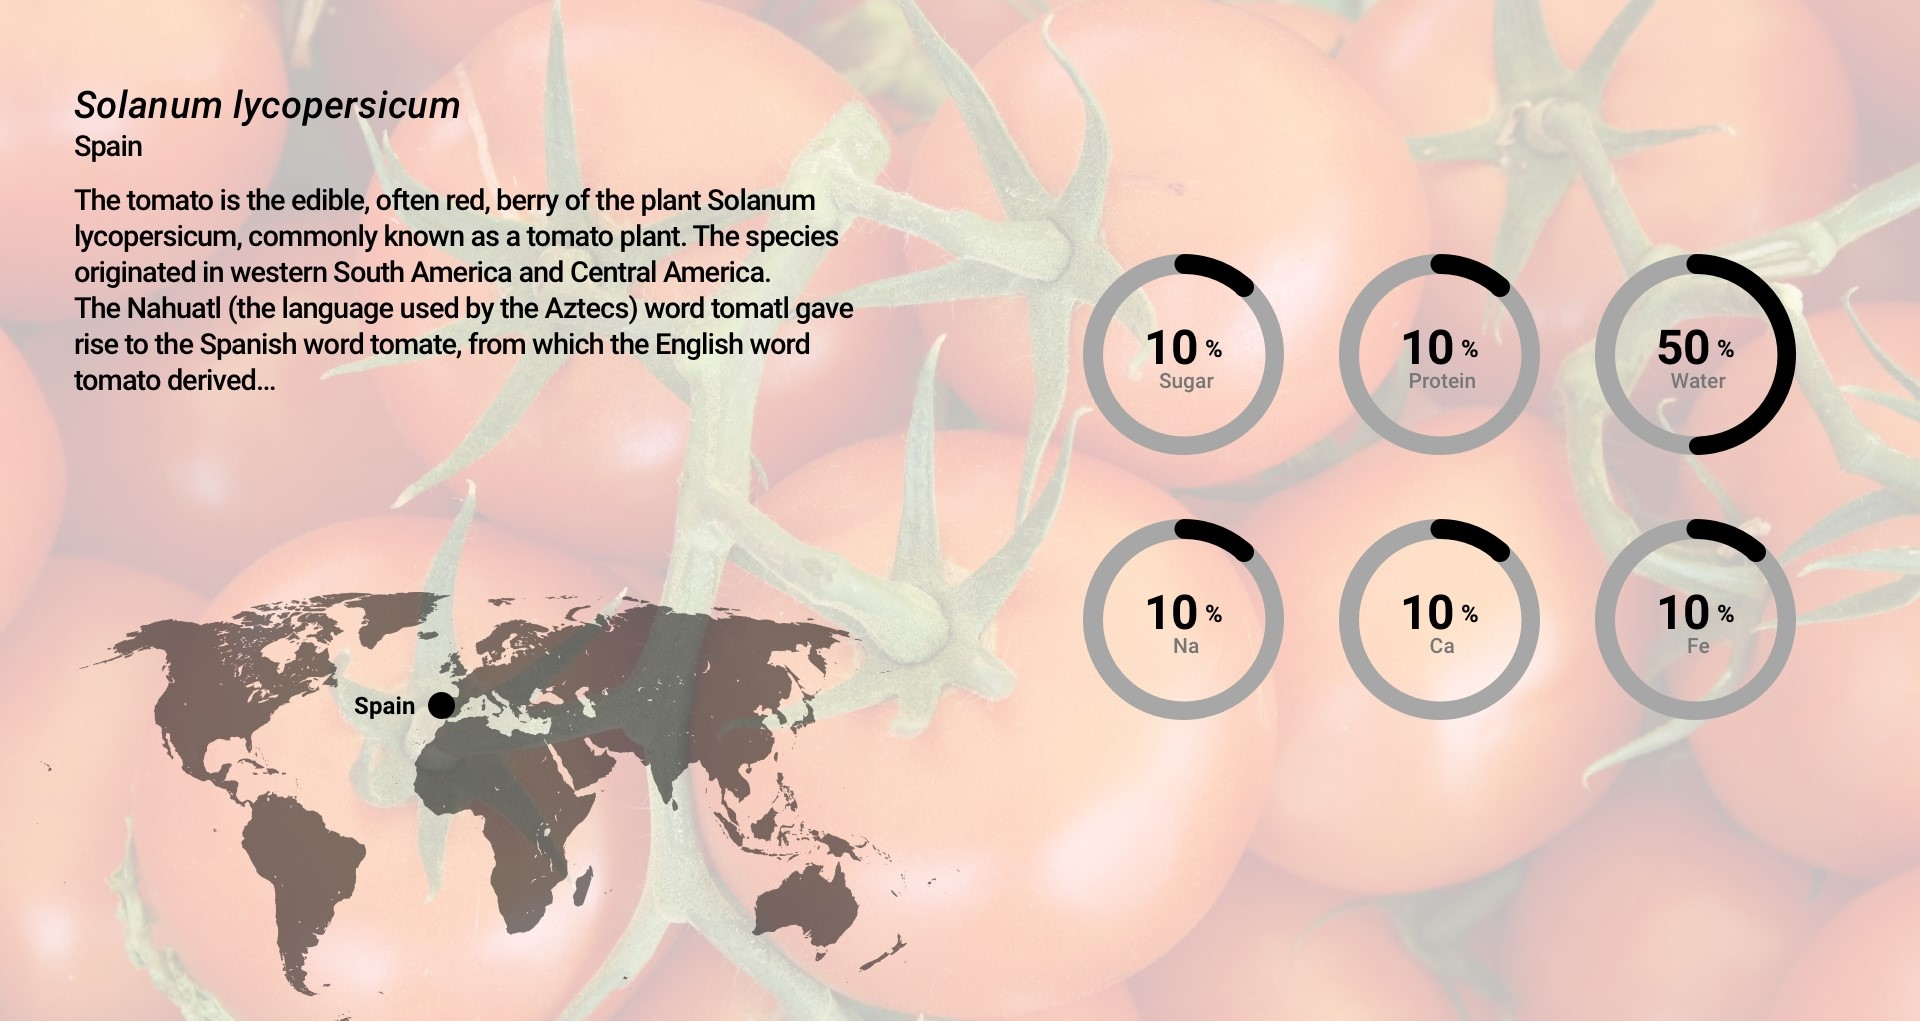
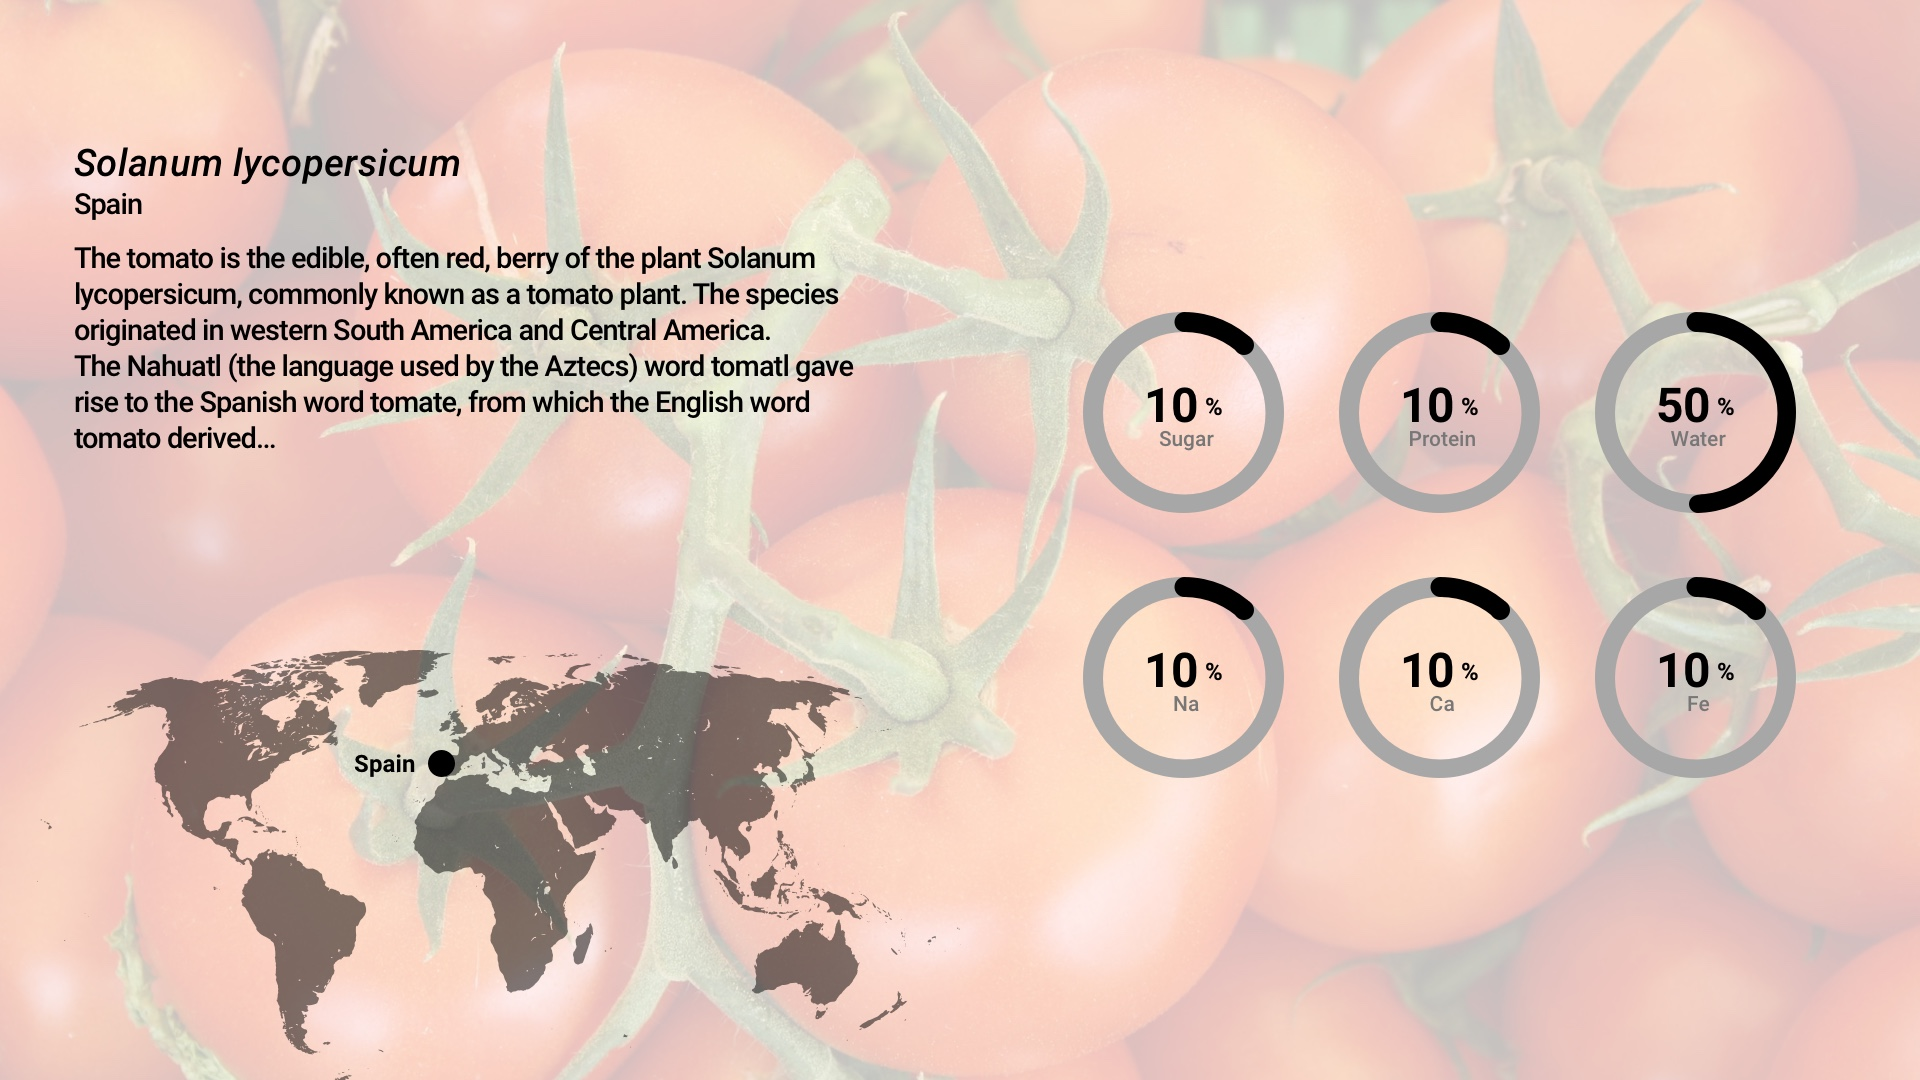
Changes done for screen alignment

diff --git a/src/app/menu/menu.component.css b/src/app/menu/menu.component.css
@@ -1,38 +1,43 @@
-.menuTabDiv{
-    padding-top: 41%;
-    background-size: cover;
-    width: 100%;
-    vertical-align: middle;
-    background-image:linear-gradient(to top, #e8eee8 10%,  #e8eee8 10%);
-    }
-.menuFlex{
-    display: flex;
-    padding-left: 5%;
-    background: linear-gradient(to top, #e8eee8, transparent);
+:host {
+  position: absolute;
+  top: 0;
+  left: 0;
+  right: 0;
 }
-.menuBG{
-    position:inherit;
+
+.menuTabDiv {
+  padding-top: 41%;
+  background-size: cover;
+  width: 100%;
+  vertical-align: middle;
+  background-image: linear-gradient(to top, #e8eee8 10%, #e8eee8 10%);
 }
-.menuTab{
-    width: 100%;
-    bottom: 0;
-   }
-.menuHead{
+.menuFlex {
+  display: flex;
+  padding-left: 5%;
+  background: linear-gradient(to top, #e8eee8, transparent);
+}
+.menuBG {
+  position: inherit;
+}
+.menuTab {
+  width: 100%;
+  bottom: 0;
+}
+.menuHead {
   font-weight: bold;
   font-size: medium;
   color: black;
-  font-family: 'Roboto';
+  font-family: "Roboto";
   z-index: 9997;
-  width: 48.84%;
+  width: 49.5%;
   height: 10%;
   position: absolute;
-  top: 1.2%;
+  top: 0%;
   background: linear-gradient(to bottom, #e8eee8, transparent);
 }
-.recipeMainDiv{
+.recipeMainDiv {
   position: absolute;
   height: 73%;
   width: 87%;
 }
-
-

diff --git a/src/app/app-routing.module.ts b/src/app/app-routing.module.ts
@@ -8,10 +8,8 @@ import { MyListComponent } from './menu/my-list/my-list.component';
 import { CarouselComponent } from './carousel/carousel.component';
 
 const routes: Routes = [
- // { path: 'home/id/:menuId', component: MenuComponent},
   { path: 'carousel', component: CarouselComponent},
    { path: 'home', component: MenuComponent,
-
    children: [
     {path: 'myList', component: MyListComponent},
     {path: 'recipe', component: RecipeComponent},
@@ -23,13 +21,6 @@ const routes: Routes = [
   ]
   }
 ];
-  /*
- {path: 'menu', component: MenuComponent},
- {path: 'categories', component: CategoryComponent},
- { path: 'information', component: NutriInfoComponent }
-]*/
-
-
 
 
 @NgModule({

diff --git a/src/app/menu/recipe/recipe.component.css b/src/app/menu/recipe/recipe.component.css
@@ -4,19 +4,20 @@
   background-position-y: center;
   background-repeat: no-repeat;
   z-index: -1;
-  height: 100%;
-  width: 99%;
+  width: 100%;
   padding-bottom: 10%;
   padding-right: 0%;
-  height: 100%;
+  padding-top: 40%;
   position: absolute;
 }
 
 .recipeItemDiv {
   width: 50%;
-  padding-top: 5%;
   padding-left: 5%;
   color: black;
+  position: absolute;
+  top: 15%;
+  z-index: 0;
 }
 
 .recipeItemDiv.inactive {
@@ -32,8 +33,10 @@
   color: black;
   font-family: "Roboto";
   z-index: 9997;
-  width: 49.38%;
+  width: 49.48%;
   height: 10%;
+  top: 0;
+  position: absolute;
   background: linear-gradient(to bottom, #e8eee8, transparent);
 }
 

diff --git a/src/app/menu/my-list/my-list.component.css b/src/app/menu/my-list/my-list.component.css
@@ -4,16 +4,15 @@
   background-position-y: center;
   background-repeat: no-repeat;
   z-index: -1;
-  width: 99%;
+  width: 100%;
   padding-bottom: 10%;
   padding-right: 0%;
   height: 100%;
-  position: absolute;
 }
 
 .myListItemDiv {
   width: 50%;
-  padding-top: 5%;
+  padding-top: 10%;
   padding-left: 8%;
   color: black;
 }
@@ -31,8 +30,9 @@
   color: black;
   font-family: "Roboto";
   z-index: 9997;
-  width: 49.38%;
+  width: 49.48%;
   height: 10%;
+  position: absolute;
   background: linear-gradient(to bottom, #e8eee8, transparent);
 }
 

diff --git a/src/app/menu/category/nutri-info/nutri-info.component.css b/src/app/menu/category/nutri-info/nutri-info.component.css
@@ -3,9 +3,9 @@
   width: -webkit-fill-available;
 }
 .nutriBGImg {
-  position: absolute;
-  width: 98.8%;
+  width: 100%;
   height: 100%;
+  padding-top: 49%;
   background-repeat: no-repeat;
   background-size: cover;
 }
@@ -17,7 +17,7 @@
   font-family: "Roboto";
   z-index: 9997;
   position: absolute;
-  width: 48.85%;
+  width: 49.5%;
   height: 10%;
   background: linear-gradient(to bottom, #e8eee8, transparent);
 }

diff --git a/src/app/menu/category/category.component.css b/src/app/menu/category/category.component.css
@@ -28,7 +28,7 @@
   opacity: 0.5;
   height: 120%;
   position: absolute;
-  width: 98.8%;
+  width: 100%;
 }
 
 .cTitleDiv {
@@ -38,7 +38,7 @@
   font-family: "Roboto";
   z-index: 9997;
   position: absolute;
-  width: 48.85%;
+  width: 49.5%;
   height: 10%;
   background: linear-gradient(to bottom, #e8eee8, transparent);
 }

diff --git a/src/app/menu/menu.component.ts b/src/app/menu/menu.component.ts
@@ -23,7 +23,7 @@ import { environment} from './../../environments/environment';
   selector: 'app-menu',
   templateUrl: './menu.component.html',
   styleUrls: ['./menu.component.css']
-})
+ })
 
 export class MenuComponent implements OnInit {
   //------Menu Content-----

diff --git a/src/app/menu/header/header.component.css b/src/app/menu/header/header.component.css
@@ -1,9 +1,8 @@
 .header {
   position: absolute;
-  width: 50%;
+  width: 50.5%;
   height: 10%;
   right: 0;
-  margin-right: 0.5%;
   background: linear-gradient(to bottom, #e8eee8, transparent);
   z-index: 9999;
 }

diff --git a/src/app/menu/recipe/recipe-buttons/recipe-buttons.component.css b/src/app/menu/recipe/recipe-buttons/recipe-buttons.component.css
@@ -1,6 +1,6 @@
 .buttonLstDiv {
   position: absolute;
-  top: 85%;
+  top: 87%;
   left: 40%;
   z-index: 9999;
   margin: 0 auto;

diff --git a/src/app/menu/category/nutri-info/nutri-info-buttons/nutri-info-buttons.component.css b/src/app/menu/category/nutri-info/nutri-info-buttons/nutri-info-buttons.component.css
@@ -1,6 +1,6 @@
 .buttonLstDiv {
   position: absolute;
-  top: 45%;
+  top: 50%;
   left: 5%;
   z-index: 9999;
   margin: 0 auto;
